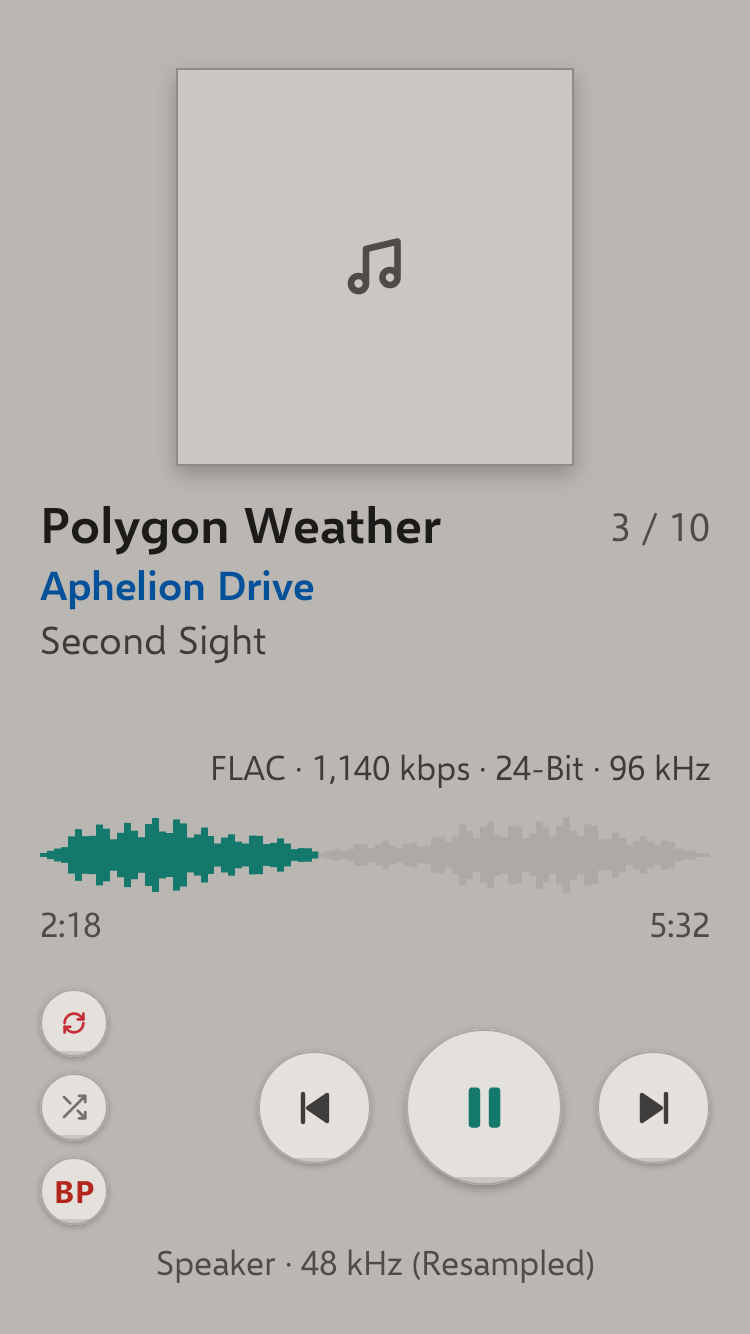
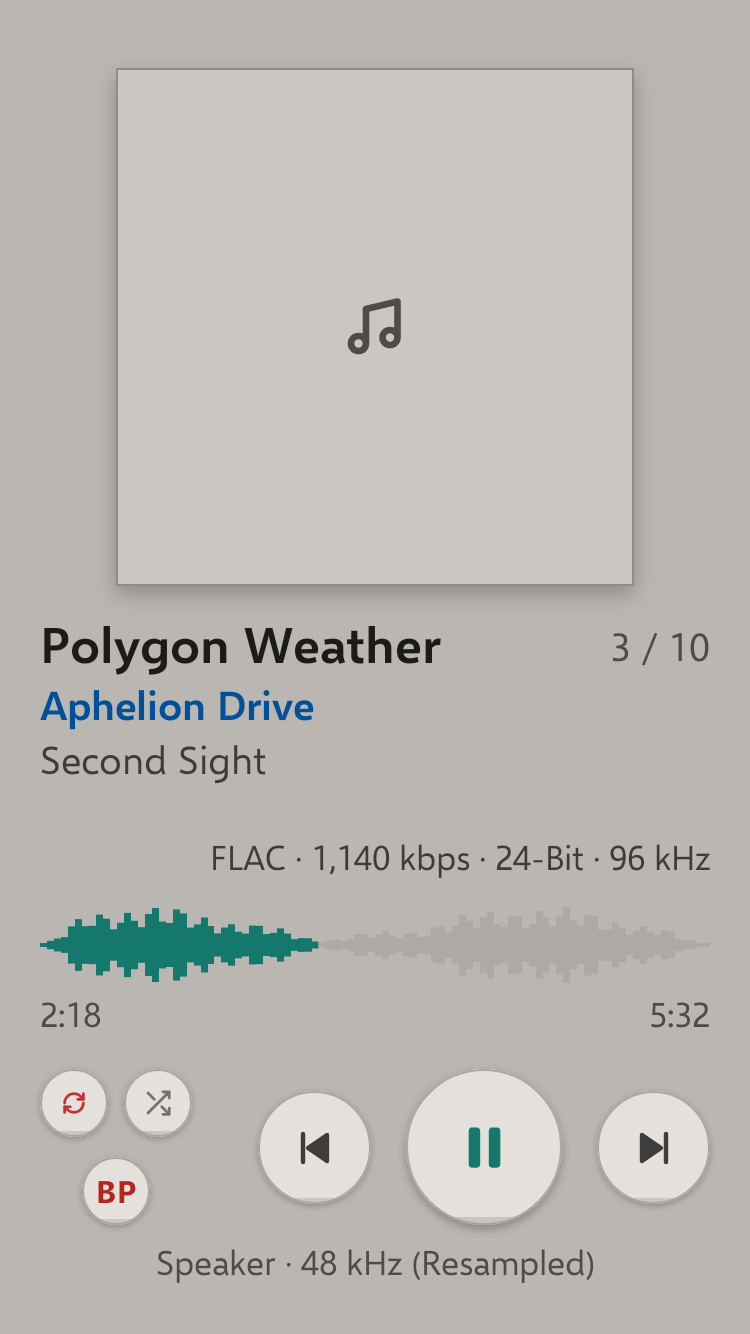
Now Playing: Repeat and Shuffle side by side over BP; a bigger cover on the M21
Repeat and Shuffle sit side by side, their tops level with Play/Pause's,
and BP is centred under them with its bottom level with Play/Pause's.
The left group is now as tall as Play/Pause instead of a 118 dp column.
On the S24 the transport's gaps shrink to fit beside it (about 10 dp,
with at least modeToTransportGap before Previous).

The room saved (the controls and 0.2.2's one-line quality) goes to the
M21's cover: artHeightReserve 426 -> 366, so 301 dp instead of 241, with
the title block lower. Spec 5 updated; Now Playing pictures re-recorded.

diff --git a/app/src/main/java/com/mpaulrenlund/audiofool/ui/NowPlayingScreen.kt b/app/src/main/java/com/mpaulrenlund/audiofool/ui/NowPlayingScreen.kt
@@ -372,10 +372,13 @@ private fun Seekbar(nowPlaying: NowPlaying, seek: (Long) -> Unit) {
 }
 
 /**
- * The controls row (spec 5): on the left a column of three `modeButton` round
- * buttons, `modeGap` apart (Repeat, Shuffle, BP); on the right Previous,
- * Play/Pause and Next, centred on Shuffle's height, sized as a fraction of the
- * screen height between a min and a max.
+ * The controls row (spec 5): on the left Repeat and Shuffle side by side,
+ * `modeGap` apart, their tops level with Play/Pause's, and BP centred under them
+ * with its bottom level with Play/Pause's (the user's call, 0.2.2; a column of
+ * three until then); on the right Previous, Play/Pause and Next, sized as a
+ * fraction of the screen height between a min and a max. At least
+ * `modeToTransportGap` lies between the two groups: where the screen is too
+ * narrow for the transport's own gaps (the S24), they shrink to fit.
  */
 @Composable
 private fun Controls(nowPlaying: NowPlaying, actions: NowPlayingActions, screenHeight: Dp) {
@@ -384,42 +387,60 @@ private fun Controls(nowPlaying: NowPlaying, actions: NowPlayingActions, screenH
         (screenHeight.value * t.number("$path.ofScreenHeight")).coerceIn(t.number("$path.min"), t.number("$path.max")).dp
     val skip = scaled("nowPlaying.skipButton")
     val play = scaled("nowPlaying.playButton")
-    val gap = scaled("nowPlaying.transportGap")
     val mode = t.dp("nowPlaying.modeButton")
+    val modeGap = t.dp("nowPlaying.modeGap")
     val modeIcon = t.dp("nowPlaying.modeIcon")
+    val padX = t.dp("nowPlaying.paddingX")
 
-    Row(
-        Modifier.fillMaxWidth().padding(
-            start = t.dp("nowPlaying.paddingX"),
-            end = t.dp("nowPlaying.paddingX"),
-            top = t.dp("nowPlaying.controlsPaddingTop"),
-            bottom = t.dp("nowPlaying.controlsPaddingBottom"),
-        ),
-        horizontalArrangement = Arrangement.SpaceBetween,
-        verticalAlignment = Alignment.CenterVertically,
-    ) {
-        Column(verticalArrangement = Arrangement.spacedBy(t.dp("nowPlaying.modeGap"))) {
-            val repeat = nowPlaying.repeat
-            Box {
-                RoundButton(mode, mode, mode, actions.cycleRepeat) {
-                    Icon(AppIcons.REPEAT, modeIcon, if (repeat == RepeatMode.Off) "color.control.iconOff" else "color.control.repeatOn")
+    BoxWithConstraints(Modifier.fillMaxWidth()) {
+        val modesWidth = mode * 2 + modeGap
+        val room = maxWidth - padX * 2 - modesWidth - t.dp("nowPlaying.modeToTransportGap") - skip * 2 - play
+        val gap = minOf(scaled("nowPlaying.transportGap"), (room / 2).coerceAtLeast(Dp(0f)))
+        Row(
+            Modifier.fillMaxWidth().padding(
+                start = padX,
+                end = padX,
+                top = t.dp("nowPlaying.controlsPaddingTop"),
+                bottom = t.dp("nowPlaying.controlsPaddingBottom"),
+            ),
+            horizontalArrangement = Arrangement.SpaceBetween,
+            verticalAlignment = Alignment.CenterVertically,
+        ) {
+            // As tall as Play/Pause: Repeat and Shuffle at its top, BP at its bottom.
+            Box(Modifier.size(modesWidth, play)) {
+                Row(Modifier.align(Alignment.TopStart), horizontalArrangement = Arrangement.spacedBy(modeGap)) {
+                    val repeat = nowPlaying.repeat
+                    Box {
+                        RoundButton(mode, mode, mode, actions.cycleRepeat) {
+                            Icon(AppIcons.REPEAT, modeIcon, if (repeat == RepeatMode.Off) "color.control.iconOff" else "color.control.repeatOn")
+                        }
+                        if (repeat == RepeatMode.One) RepeatOneBadge(Modifier.align(Alignment.TopEnd))
+                    }
+                    RoundButton(mode, mode, mode, actions.toggleShuffle) {
+                        Icon(AppIcons.SHUFFLE, modeIcon, if (nowPlaying.shuffle) "color.control.shuffleOn" else "color.control.iconOff")
+                    }
                 }
-                if (repeat == RepeatMode.One) RepeatOneBadge(Modifier.align(Alignment.TopEnd))
+                Box(Modifier.align(Alignment.BottomCenter)) {
+                    val greyed = nowPlaying.bitPerfectGreyed
+                    BitPerfectButton(nowPlaying.bitPerfect, if (greyed) null else actions.toggleBitPerfect, greyed)
+                }
             }
-            RoundButton(mode, mode, mode, actions.toggleShuffle) {
-                Icon(AppIcons.SHUFFLE, modeIcon, if (nowPlaying.shuffle) "color.control.shuffleOn" else "color.control.iconOff")
-            }
-            val greyed = nowPlaying.bitPerfectGreyed
-            BitPerfectButton(nowPlaying.bitPerfect, if (greyed) null else actions.toggleBitPerfect, greyed)
+            TransportButtons(nowPlaying, actions, skip, play, gap)
         }
-        Row(horizontalArrangement = Arrangement.spacedBy(gap), verticalAlignment = Alignment.CenterVertically) {
-            val skipIcon = skip * t.number("nowPlaying.skipIconOfButton").toFloat()
-            RoundButton(skip, skip, skip, actions.previous) { Icon(AppIcons.PREVIOUS, skipIcon, "color.control.iconNeutral") }
-            RoundButton(play, play, play, actions.playPause, play = true) {
-                Icon(if (nowPlaying.isPlaying) AppIcons.PAUSE else AppIcons.PLAY, play * t.number("nowPlaying.playIconOfButton").toFloat(), "color.accent.playback")
-            }
-            RoundButton(skip, skip, skip, actions.next) { Icon(AppIcons.NEXT, skipIcon, "color.control.iconNeutral") }
+    }
+}
+
+/** Previous, Play/Pause and Next, [gap] apart, centred on Play/Pause. */
+@Composable
+private fun TransportButtons(nowPlaying: NowPlaying, actions: NowPlayingActions, skip: Dp, play: Dp, gap: Dp) {
+    val t = LocalAppTheme.current
+    Row(horizontalArrangement = Arrangement.spacedBy(gap), verticalAlignment = Alignment.CenterVertically) {
+        val skipIcon = skip * t.number("nowPlaying.skipIconOfButton").toFloat()
+        RoundButton(skip, skip, skip, actions.previous) { Icon(AppIcons.PREVIOUS, skipIcon, "color.control.iconNeutral") }
+        RoundButton(play, play, play, actions.playPause, play = true) {
+            Icon(if (nowPlaying.isPlaying) AppIcons.PAUSE else AppIcons.PLAY, play * t.number("nowPlaying.playIconOfButton").toFloat(), "color.accent.playback")
         }
+        RoundButton(skip, skip, skip, actions.next) { Icon(AppIcons.NEXT, skipIcon, "color.control.iconNeutral") }
     }
 }
 

diff --git a/design/android-spec.md b/design/android-spec.md
@@ -115,14 +115,14 @@ As built (session 5, approved from screenshots): LIBRARY holds Tracks, Albums an
 
 Opens from the mini player, and when a song is tapped (in a list or in Search). It has **no buttons at the top**: system back closes it, back to the screen underneath. There is no swipe down (the user's call, 0.2.0). **Swiping the art or the title block sideways skips**: left is Next, right is Previous (the button's rule: more than 3 s in, it restarts the song). They follow the finger and fade; let go past `nowPlaying.swipeSkipDistance`, or flick faster than `swipeSkipVelocity`, and the song changes with them back in place at once (no animation; 0.2.0's spring back after a skip left them stuck off the screen on the S24). Short of that, they spring back. The seekbar keeps its own sideways drag. From top to bottom:
 
-1. **Art**, square, `nowPlaying.paddingX` from each side, `nowPlaying.artTop` below the status bar. Its side is the smaller of (screen width − 40) and (screen height − `artHeightReserve`), so on the M21 it shrinks to leave the controls room. `shadow.headerArt`; no border round a cover (§2, Covers).
+1. **Art**, square, `nowPlaying.paddingX` from each side, `nowPlaying.artTop` below the status bar. Its side is the smaller of (screen width − 40) and (screen height − `artHeightReserve`), so on the M21 it shrinks to leave the controls room. The reserve is 366 dp since 0.2.2 (426 before): the one-line quality and the shorter controls row gave the M21's cover about 60 dp more (301 dp, from 241), with the title block lower (the user's call). The S24's cover is limited by the width, so it is unchanged. `shadow.headerArt`; no border round a cover (§2, Covers).
 2. **Title** (22/600, `text.heading`), **artist** (16/600, `accent.blue`) and **album** (15, `text.secondary`), left-aligned. The **track count "3 / 10"** (15, `text.muted`) sits right of the title, aligned to its top. There's no Like button.
 3. Flexible space, weight 3.
 4. **Quality**, one right-aligned line right above the seekbar (13, `text.secondary`): format, bitrate, bit depth, sample rate, "FLAC · 1,901 kbps · 24-Bit · 48 kHz" (the user's order, 0.2.2; two lines before). Lossy files have no bit depth ("MP3 · 320 kbps · 44.1 kHz"). DSD gives its rate in MHz: "DSD · 5,645 kbps · 1-Bit · 2.8 MHz" (DSD64). Anything not known is left out.
 5. **Waveform seekbar**, full width, 40 dp: the track's waveform as 96 hard-edged bars, played part `slider.seekFill`, the rest `slider.track`. The split falls at the exact place, through the bar being played, so it glides while playing (the desktop's `WaveformView`; 0.2.0, the user's report). Drag or tap to seek. Compute it as the desktop's `Waveform` does, in the background, cached per file. Until it's ready, show a flat bar `waveformFloor` high.
 6. **Elapsed** left, **total** right (13, `text.muted`).
 7. Flexible space, weight 1.
-8. **Controls row**: on the left, a column of three 34 dp round buttons, 8 dp apart: **Repeat**, **Shuffle**, **BP**. On the right, for a right thumb, **Previous**, **Play/Pause** and **Next**, centred on the Shuffle button's height. Their size follows the screen height (`nowPlaying.skipButton`, `playButton`, `transportGap`: a fraction of the screen height, between a min and max). That gives 70 / 96 / 22 dp on the S24 and about 57 / 78 / 17 dp on the M21.
+8. **Controls row**: on the left, three 34 dp round buttons: **Repeat** and **Shuffle** side by side, 8 dp apart, their tops level with Play/Pause's top, and **BP** centred under them, its bottom level with Play/Pause's bottom (the user's call, 0.2.2; a column of three before). On the right, for a right thumb, **Previous**, **Play/Pause** and **Next**, centred on Play/Pause. Their size follows the screen height (`nowPlaying.skipButton`, `playButton`, `transportGap`: a fraction of the screen height, between a min and max). That gives 70 / 96 / 22 dp on the S24 and about 57 / 78 / 17 dp on the M21. At least `modeToTransportGap` (12 dp) lies between the two groups; where that doesn't fit, the transport's gaps shrink (the S24: about 10 dp).
 9. **Output readout**, centred (13, `text.muted`), e.g. "Speaker · 48 kHz (Resampled)" (§6.3).
 
 Repeat: off `control.iconOff`; on `control.repeatOn`; repeat-one adds the desktop's "1" badge (`playbackBar.repeatOneBadge`). Shuffle: off `control.iconOff`, on `control.shuffleOn`. Order and repeat follow the desktop's `PlayOrder`.

diff --git a/design/progress.md b/design/progress.md
@@ -14,7 +14,7 @@ Update this at the end of every session: tick off what's finished, note anything
 - [x] **0.1.3**: the M21 recognised by its speaker's name; unplug from the jack — 2026-10-25
 - [x] **0.1.4**: no click at a restart or a tap (the desktop's seek fade) — 2026-10-25
 - [x] **0.1.5**: unplug pauses on the M21; its readout goes by FiiO's reported rate (both checked on the M21 over adb) — 2026-10-25
-- [ ] **0.2.2**: Statistics' Playback and Debug panels moved to a Debug screen; no border round covers; one quality line; the readout without "Shared", capitalised — built and checked on the emulator 2026-10-25, not released
+- [ ] **0.2.2**: Statistics' Playback and Debug panels moved to a Debug screen; no border round covers; one quality line; the readout without "Shared", capitalised; Now Playing's new controls layout and a bigger cover on the M21 — built and checked on the emulator 2026-10-25, not released
 - [x] **0.2.1**: the letter strip always shown; swipe-to-skip no longer leaves the art off the screen — 2026-10-25, released as a pre-release (the stuck art still to confirm on the S24)
 - [x] **0.2.0**: the Artists letter strip; Now Playing swipes sideways to skip (no swipe down); the seekbar glides — 2026-10-25, released as a pre-release
 
@@ -70,6 +70,21 @@ The user made these while the mockups were designed (October 2026). The spec alr
   Settings pictures re-recorded (the readout and the line; ThemeLab has no real covers, so the
   border shows only on the emulator); on the emulator: list and Now Playing covers drawn with no
   frame, "FLAC · 99 kbps · 16-Bit · 44.1 kHz", "Speaker · 48 kHz (Resampled)".
+- **Now Playing's controls** (the user's call): Repeat and Shuffle side by side, tops level
+  with Play/Pause's; BP centred under them, bottom level with Play/Pause's. The left group is
+  now as tall as Play/Pause (78 dp on the M21) instead of the old 118 dp column. On the S24 the
+  pair (76 dp) and the full-size transport (279 dp) don't fit in 344 dp, so the transport's
+  gaps shrink to fit with at least `modeToTransportGap` (12 dp, new) before Previous: about
+  10 dp there instead of 22 (mine: keeps the buttons' size for the thumb). The M21 keeps 17 dp.
+- **A bigger cover on the M21, the title lower** (the user asked, "keeping the M21 in mind"):
+  `artHeightReserve` 426 → 366 dp, the height the controls (about 40 dp) and the one-line
+  quality (about 20 dp) gave up, so the M21's cover is 301 dp (from 241) with the same space
+  round the text. The S24's cover is limited by the screen's width and stays 344 dp; the
+  room it gained goes to the space above the quality line.
+- **Checked:** ThemeLab Now Playing pictures, both themes and sizes, font size 1.3 on the M21
+  (the readout still on screen), Repeat One's badge, the S24 with BP greyed; the tops and
+  bottoms measured level on the M21's picture; on the emulator Repeat, Shuffle and Play
+  respond at their new places.
 
 0.2.1 (2026-10-25), released as pre-release [`v0.2.1`](https://github.com/mpaulrenlund/AudioFool-Android/releases/tag/v0.2.1) ("AudioFool 0.2.1", versionCode 14), from the user's report on 0.2.0 (S24):
 
@@ -448,6 +463,9 @@ Session 1:
 - [ ] **The output row**: no "Shared"; e.g. "USB · 96 kHz / 24-Bit (Bit-Perfect)" through the DAC
   with BP on, "(Rate Matched)" at 48 kHz and up, "(Resampled)" on the speaker.
 - [ ] **Statistics > Debug** opens the playback and debug numbers; back returns.
+- [ ] **Now Playing's controls:** Repeat and Shuffle side by side at the top of Play/Pause, BP
+  under them at its bottom. On the S24, are Previous/Play/Next still easy to hit with their
+  tighter spacing?
 
 ### 0.2.1 (the strip always shown, the stuck art)
 
@@ -647,6 +665,13 @@ The S24 has **no SD card slot** and holds a smaller library than the desktop's: 
 - [ ] **Token sheet.** Debug > Token sheet: tap through the four pages in both themes; back returns.
 
 ## To test on the M21
+
+0.2.2 (not released yet):
+
+- [ ] **Now Playing's bigger cover**: the title, artist, album and "3 / 12" sit lower, the cover
+  larger, and the readout still fits under the controls (also at a larger font size).
+- [ ] **Now Playing's controls**: Repeat and Shuffle side by side at the top of Play/Pause, BP
+  under them at its bottom.
 
 0.2.0, released as pre-release [`v0.2.0`](https://github.com/mpaulrenlund/AudioFool-Android/releases/tag/v0.2.0) (versionCode 13):
 

diff --git a/HANDOFF.md b/HANDOFF.md
@@ -12,8 +12,9 @@ and the lists of what to test on each device). The spec is `design/android-spec.
   Library, Formats and Listening; its last row opens a **Debug** screen with the Playback and
   Debug panels. The FiiO signals and Outputs rows are gone. Also: no border round covers
   (placeholders keep theirs), Now Playing's quality on one line ("FLAC · 1,901 kbps · 24-Bit ·
-  48 kHz"), and the readout without "Shared", capitalised ("Speaker · 48 kHz (Resampled)").
-  Confirm before releasing.
+  48 kHz"), and the readout without "Shared", capitalised ("Speaker · 48 kHz (Resampled)"). Now
+  Playing's controls: Repeat and Shuffle side by side over BP, the group as tall as Play/Pause;
+  the M21's cover 301 dp (`artHeightReserve` 366). Confirm before releasing.
 - **Latest: 0.2.1** (versionCode 14), a pre-release,
   <https://github.com/mpaulrenlund/AudioFool-Android/releases/tag/v0.2.1>,
   `dist/AudioFool-0.2.1.apk`, from the user's 0.2.0 report: the Artists letter strip always
